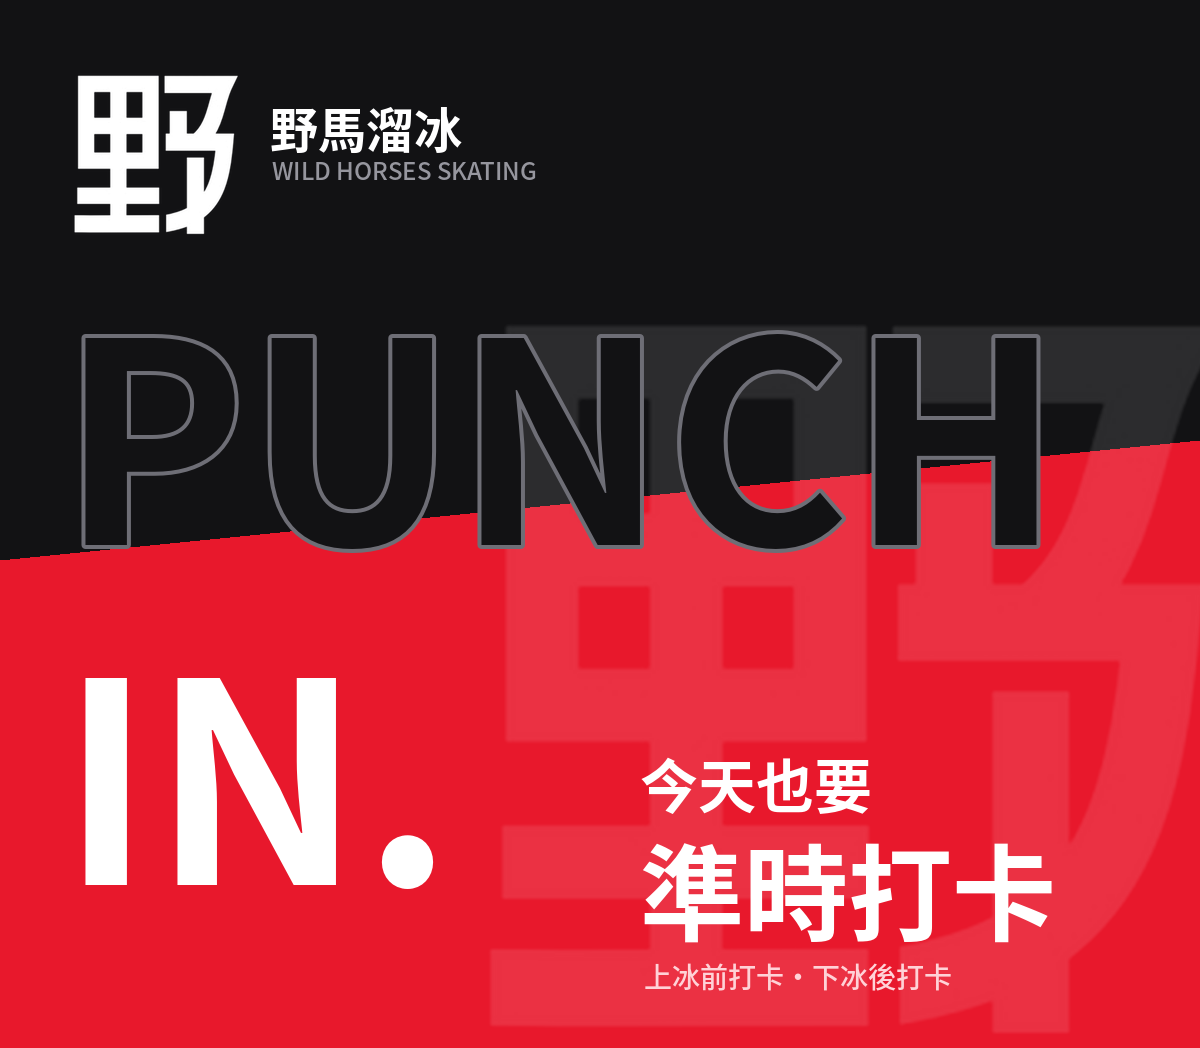
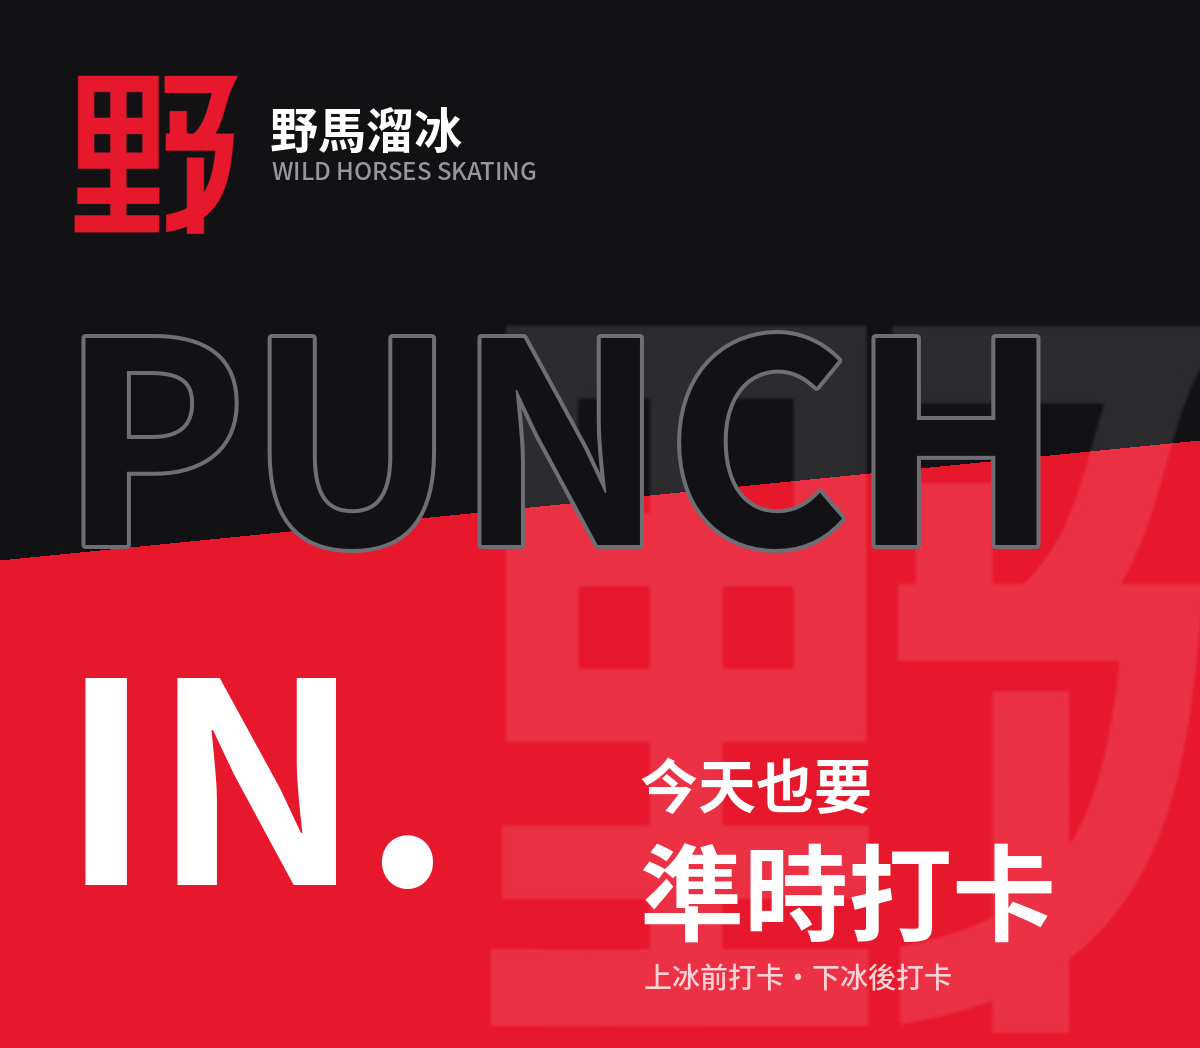
分享圖文改回 1-4，左上野字紅色
Claude-Session: https://claude.ai/code/session_01SgUoPMs89Ch7rWoMucrYnN

Changed region(s): [[0.0617, 0.0611, 0.2158, 0.2443]]

diff --git a/app.js b/app.js
@@ -6,7 +6,7 @@ import {
   initializeFirestore, doc, getDoc, setDoc as _setDoc, updateDoc as _updateDoc, deleteDoc as _deleteDoc, addDoc as _addDoc,
   collection, query, where, getDocs, serverTimestamp, writeBatch as _writeBatch, deleteField, arrayUnion, arrayRemove
 } from "https://www.gstatic.com/firebasejs/10.12.2/firebase-firestore.js";
-import { firebaseConfig, LIFF_ID, WORKER_URL } from "./config.js?v=76";
+import { firebaseConfig, LIFF_ID, WORKER_URL } from "./config.js?v=77";
 
 /* 整個月的大量查詢（報表、薪資、排班）暫存 3 分鐘，省 Firestore 讀取額度；任何寫入都會清掉暫存 */
 const MEMO = new Map();
@@ -855,7 +855,7 @@ const PUNCH_URL = `https://liff.line.me/${LIFF_ID}?view=clock`;
 $("#sharePunchBtn").onclick = async () => {
   const flex = { type: "flex", altText: "今天也要準時打卡｜野馬溜冰打卡系統", contents: {
     type: "bubble",
-    hero: { type: "image", url: "https://wild-horses-skating.pages.dev/share-card.png?v=8", size: "full", aspectRatio: "1200:1048", aspectMode: "cover", action: { type: "uri", uri: PUNCH_URL } },
+    hero: { type: "image", url: "https://wild-horses-skating.pages.dev/share-card.png?v=9", size: "full", aspectRatio: "1200:1048", aspectMode: "cover", action: { type: "uri", uri: PUNCH_URL } },
     footer: { type: "box", layout: "vertical", paddingAll: "16px", backgroundColor: "#e8182c", contents: [
       { type: "box", layout: "vertical", backgroundColor: "#ffffff", cornerRadius: "10px", paddingAll: "14px", action: { type: "uri", label: "我要打卡", uri: PUNCH_URL },
         contents: [{ type: "text", text: "我要打卡", weight: "bold", size: "lg", color: "#e8182c", align: "center" }] },

diff --git a/index.html b/index.html
@@ -16,7 +16,7 @@
   <title>野馬溜冰打卡系統</title>
   <meta property="og:title" content="野馬溜冰打卡系統">
   <meta property="og:description" content="點這裡上班・下班打卡">
-  <meta property="og:image" content="https://wild-horses-skating.pages.dev/share-card.png?v=8">
+  <meta property="og:image" content="https://wild-horses-skating.pages.dev/share-card.png?v=9">
   <meta property="og:url" content="https://liff.line.me/2012318362-VOU7aFr9?view=clock">
   <meta name="twitter:card" content="summary_large_image">
   <link rel="preconnect" href="https://www.gstatic.com" crossorigin>
@@ -26,7 +26,7 @@
   <link rel="modulepreload" href="https://www.gstatic.com/firebasejs/10.12.2/firebase-app.js">
   <link rel="modulepreload" href="https://www.gstatic.com/firebasejs/10.12.2/firebase-auth.js">
   <link rel="modulepreload" href="https://www.gstatic.com/firebasejs/10.12.2/firebase-firestore.js">
-  <link rel="stylesheet" href="style.css?v=76">
+  <link rel="stylesheet" href="style.css?v=77">
 </head>
 <body>
 
@@ -786,6 +786,6 @@
     }
   }, 25000);
 </script>
-<script type="module" src="app.js?v=76"></script>
+<script type="module" src="app.js?v=77"></script>
 </body>
 </html>
